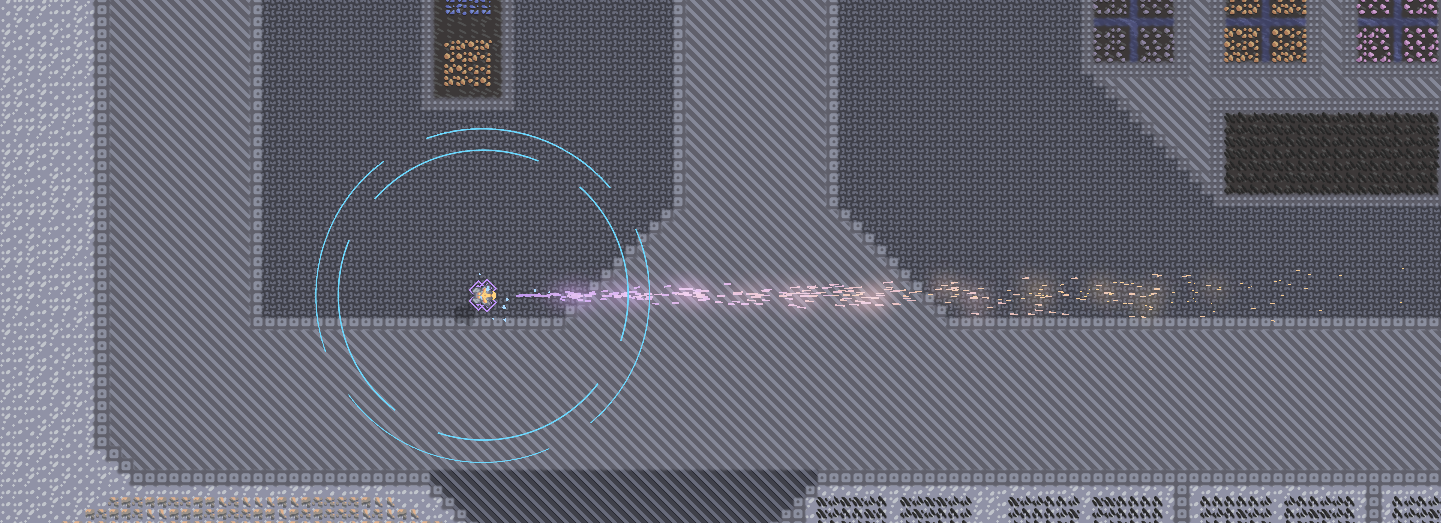
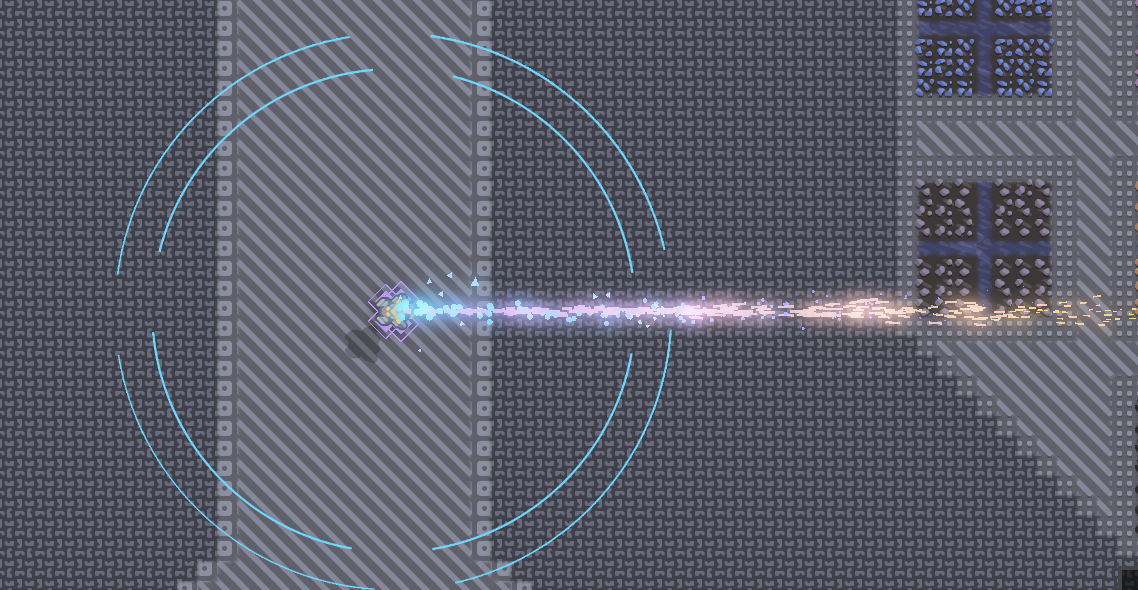
Add files via upload

diff --git a/scripts/gammg3.js b/scripts/gammg3.js
@@ -1,6 +1,7 @@
 var cogs = Color.valueOf("6dd8fe");
 const effect2 = new Effect(80, e => {
-    Draw.color(Color.valueOf("ab83f6ff"), e.color, e.fin());
+   // Draw.color(Color.valueOf("ab83f6ff"), e.color, e.fin());
+    Draw.color(Color.valueOf("ff0000").shiftHue((Time.time * 0.3) + (1 * (360 / 20))), e.color, e.fin());
     Lines.stroke(e.fout() * 1 + 0.5);
     Angles.randLenVectors(e.id, 10, 100 * e.fin(), e.rotation, 5, (x, y) => {
         Lines.lineAngle(e.x + x, e.y + y, Mathf.angle(x, y), e.fslope() * 5 + 0.5);
@@ -13,32 +14,37 @@ const effect2 = new Effect(80, e => {
 })
 Events.run(Trigger.draw, () => {
     Groups.unit.each(cons(u => {
-        if (u.type == UnitTypes.beta && u == Vars.player.unit()) {
+        //if (u == Vars.player.unit());
+        if (u.type == UnitTypes.gamma && u == Vars.player.unit()) {
             var z = Draw.z();
             Draw.z(Layer.flyingUnit - 0.5);
-            Draw.color(cogs);
+            Draw.color(Color.valueOf("ff0000").shiftHue((Time.time * 0.5) + (1 * (360 / 20))));
             Draw.alpha(1);
             Draw.rect(Core.atlas.find("skin-gammaSplus-1"), u.x, u.y, Time.time * 0.6);
+            Draw.rect(Core.atlas.find("skin-gammaSplus-2"), u.x, u.y, -Time.time * 0.6);
             Draw.z(z);
         }
     }));
 });
 Events.run(Trigger.draw, () => {
     Groups.unit.each(cons(u => {
-        if (u.type == UnitTypes.incite && u == Vars.player.unit()) {
+        if (u.type == UnitTypes.emanate && u == Vars.player.unit()) {
             var z = Draw.z();
             Draw.z(Layer.flyingUnit - 0.5);
-            Draw.color(cogs);
+            Draw.color(Color.valueOf("ff0000").shiftHue((Time.time * 2) + (1 * (360 / 20))));
             Draw.alpha(1);
             Draw.rect(Core.atlas.find("skin-gammaSplus-1"), u.x, u.y, Time.time * 0.6);
+            Draw.rect(Core.atlas.find("skin-gammaSplus-2"), u.x, u.y, -Time.time * 0.6);
             Draw.z(z);
         }
     }));
 });
+//去掉if就是全部单位
+//加上判断type就是限制伽马
 const moveEffect = (x, y, c, e, i) => {
     var ability = new JavaAdapter(MoveEffectAbility, {
         localized() {
-            return "2";
+            return "3";
         },
         update(unit) {
             if (unit != Vars.player.unit()) return;
@@ -59,48 +65,49 @@ const moveEffect = (x, y, c, e, i) => {
     ability.effectParam = 2;
     ability.rotation = 180
     ability.teamColor = true;
+    //把接口写在这里
 
     return ability;
 };
 
 const w = moveEffect(0, -3, cogs, effect2, 3);
-UnitTypes.beta.abilities.add(w)
-UnitTypes.beta.parts.add(
+UnitTypes.gamma.abilities.add(w)
+UnitTypes.gamma.parts.add(
     (() => {
         const w = new HoverPart()
         w.x = 3.9;
         w.y = 3;
         w.color = cogs;
         w.mirror = true;
-        w.radius = 5;
-        w.phase = 40;
-        w.stroke = 1;
+        w.radius = 8;
+        w.phase = 30;
+        w.stroke = 3;
+
         w.layerOffset = -0.001;
         w.color = Color.valueOf("bf92f9");
         return w;
     })()
 );
-UnitTypes.beta.parts.add(
+UnitTypes.gamma.parts.add(
     (() => {
         const w = new HoverPart()
         w.x = 4.9;
         w.y = -3;
         w.color = cogs;
         w.mirror = true;
-        w.radius = 5;
-        w.phase = 40;
-        w.stroke = 1;
+        w.radius = 8;
+        w.phase = 30;
+        w.stroke = 3;
         w.layerOffset = -0.001;
         w.color = Color.valueOf("bf92f9");
         return w;
     })()
 );
-
-UnitTypes.incite.parts.add(
+UnitTypes.emanate.parts.add(
     (() => {
         const w = new HoverPart()
         w.x = 0;
-        w.y = 5.5;
+        w.y = 8;
         w.color = cogs;
         w.radius = 8;
         w.phase = 90;
@@ -110,10 +117,10 @@ UnitTypes.incite.parts.add(
         return w;
     })()
 );
-UnitTypes.incite.parts.add(
+UnitTypes.emanate.parts.add(
     (() => {
         const w = new HoverPart()
-        w.x = 3.5;
+        w.x = 5;
         w.y = 0;
         w.color = cogs;
         w.mirror = true;
@@ -125,11 +132,11 @@ UnitTypes.incite.parts.add(
         return w;
     })()
 );
-UnitTypes.incite.parts.add(
+UnitTypes.emanate.parts.add(
     (() => {
         const w = new HoverPart()
-        w.x = 4.8;
-        w.y = -4.2;
+        w.x = 7;
+        w.y = -8;
         w.color = cogs;
         w.mirror = true;
         w.radius = 8;
@@ -140,4 +147,4 @@ UnitTypes.incite.parts.add(
         return w;
     })()
 );
-UnitTypes.incite.abilities.add(w);
+UnitTypes.emanate.abilities.add(w);

diff --git a/scripts/gammg.js b/scripts/gammg.js
@@ -1,5 +1,5 @@
 var cogs = Color.valueOf("6dd8fe");
-const effect2 = new Effect(80, e => {
+const effect2 = new Effect(45, e => {
     Draw.color(Color.valueOf("ab83f6ff"), e.color, e.fin());
     Lines.stroke(e.fout() * 1 + 0.5);
     Angles.randLenVectors(e.id, 10, 100 * e.fin(), e.rotation, 5, (x, y) => {
@@ -11,30 +11,6 @@ const effect2 = new Effect(80, e => {
         Fill.circle(e.x + x, e.y + y, 0.1 + e.fout() * 1.4);
     });
 })
-Events.run(Trigger.draw, () => {
-    Groups.unit.each(cons(u => {
-        if (u.type == UnitTypes.beta && u == Vars.player.unit()) {
-            var z = Draw.z();
-            Draw.z(Layer.flyingUnit - 0.5);
-            Draw.color(cogs);
-            Draw.alpha(1);
-            Draw.rect(Core.atlas.find("skin-gammaSplus-1"), u.x, u.y, Time.time * 0.6);
-            Draw.z(z);
-        }
-    }));
-});
-Events.run(Trigger.draw, () => {
-    Groups.unit.each(cons(u => {
-        if (u.type == UnitTypes.incite && u == Vars.player.unit()) {
-            var z = Draw.z();
-            Draw.z(Layer.flyingUnit - 0.5);
-            Draw.color(cogs);
-            Draw.alpha(1);
-            Draw.rect(Core.atlas.find("skin-gammaSplus-1"), u.x, u.y, Time.time * 0.6);
-            Draw.z(z);
-        }
-    }));
-});
 const moveEffect = (x, y, c, e, i) => {
     var ability = new JavaAdapter(MoveEffectAbility, {
         localized() {
@@ -64,23 +40,23 @@ const moveEffect = (x, y, c, e, i) => {
 };
 
 const w = moveEffect(0, -3, cogs, effect2, 3);
-UnitTypes.beta.abilities.add(w)
-UnitTypes.beta.parts.add(
+UnitTypes.alpha.abilities.add(w)
+UnitTypes.alpha.parts.add(
     (() => {
         const w = new HoverPart()
         w.x = 3.9;
         w.y = 3;
         w.color = cogs;
         w.mirror = true;
-        w.radius = 5;
-        w.phase = 40;
+        w.radius = 4;
+        w.phase = 50;
         w.stroke = 1;
         w.layerOffset = -0.001;
         w.color = Color.valueOf("bf92f9");
         return w;
     })()
 );
-UnitTypes.beta.parts.add(
+UnitTypes.alpha.parts.add(
     (() => {
         const w = new HoverPart()
         w.x = 4.9;
@@ -88,7 +64,7 @@ UnitTypes.beta.parts.add(
         w.color = cogs;
         w.mirror = true;
         w.radius = 5;
-        w.phase = 40;
+        w.phase = 70;
         w.stroke = 1;
         w.layerOffset = -0.001;
         w.color = Color.valueOf("bf92f9");
@@ -96,25 +72,11 @@ UnitTypes.beta.parts.add(
     })()
 );
 
-UnitTypes.incite.parts.add(
+UnitTypes.evoke.parts.add(
     (() => {
         const w = new HoverPart()
         w.x = 0;
-        w.y = 5.5;
-        w.color = cogs;
-        w.radius = 8;
-        w.phase = 90;
-        w.stroke = 3;
-        w.layerOffset = -0.001;
-        w.color = Color.valueOf("bf92f9");
-        return w;
-    })()
-);
-UnitTypes.incite.parts.add(
-    (() => {
-        const w = new HoverPart()
-        w.x = 3.5;
-        w.y = 0;
+        w.y = 3;
         w.color = cogs;
         w.mirror = true;
         w.radius = 8;
@@ -125,19 +87,19 @@ UnitTypes.incite.parts.add(
         return w;
     })()
 );
-UnitTypes.incite.parts.add(
+UnitTypes.evoke.parts.add(
     (() => {
         const w = new HoverPart()
-        w.x = 4.8;
-        w.y = -4.2;
+        w.x = 5.2;
+        w.y = -3.4;
         w.color = cogs;
         w.mirror = true;
-        w.radius = 8;
-        w.phase = 90;
-        w.stroke = 3;
+        w.radius = 7;
+        w.phase = 60;
+        w.stroke = 2;
         w.layerOffset = -0.001;
         w.color = Color.valueOf("bf92f9");
         return w;
     })()
 );
-UnitTypes.incite.abilities.add(w);
+UnitTypes.evoke.abilities.add(w);

diff --git a/scripts/main.js b/scripts/main.js
@@ -1,2 +1,14 @@
-   // require('gammg');
+    require('gammg');
     require('gammg2');
+    require('gammg3');
+    const bbb = (() => {
+      const v = new JavaAdapter(StatusEffect, {
+      }, "skin-1");
+      v.effect = Fx.lightningCharge;
+      return v;
+  })();
+  
+  Events.run(Trigger.update, () => {
+      Vars.player.unit().apply(bbb, java.lang.Float.MAX_VALUE);
+  });
+  
